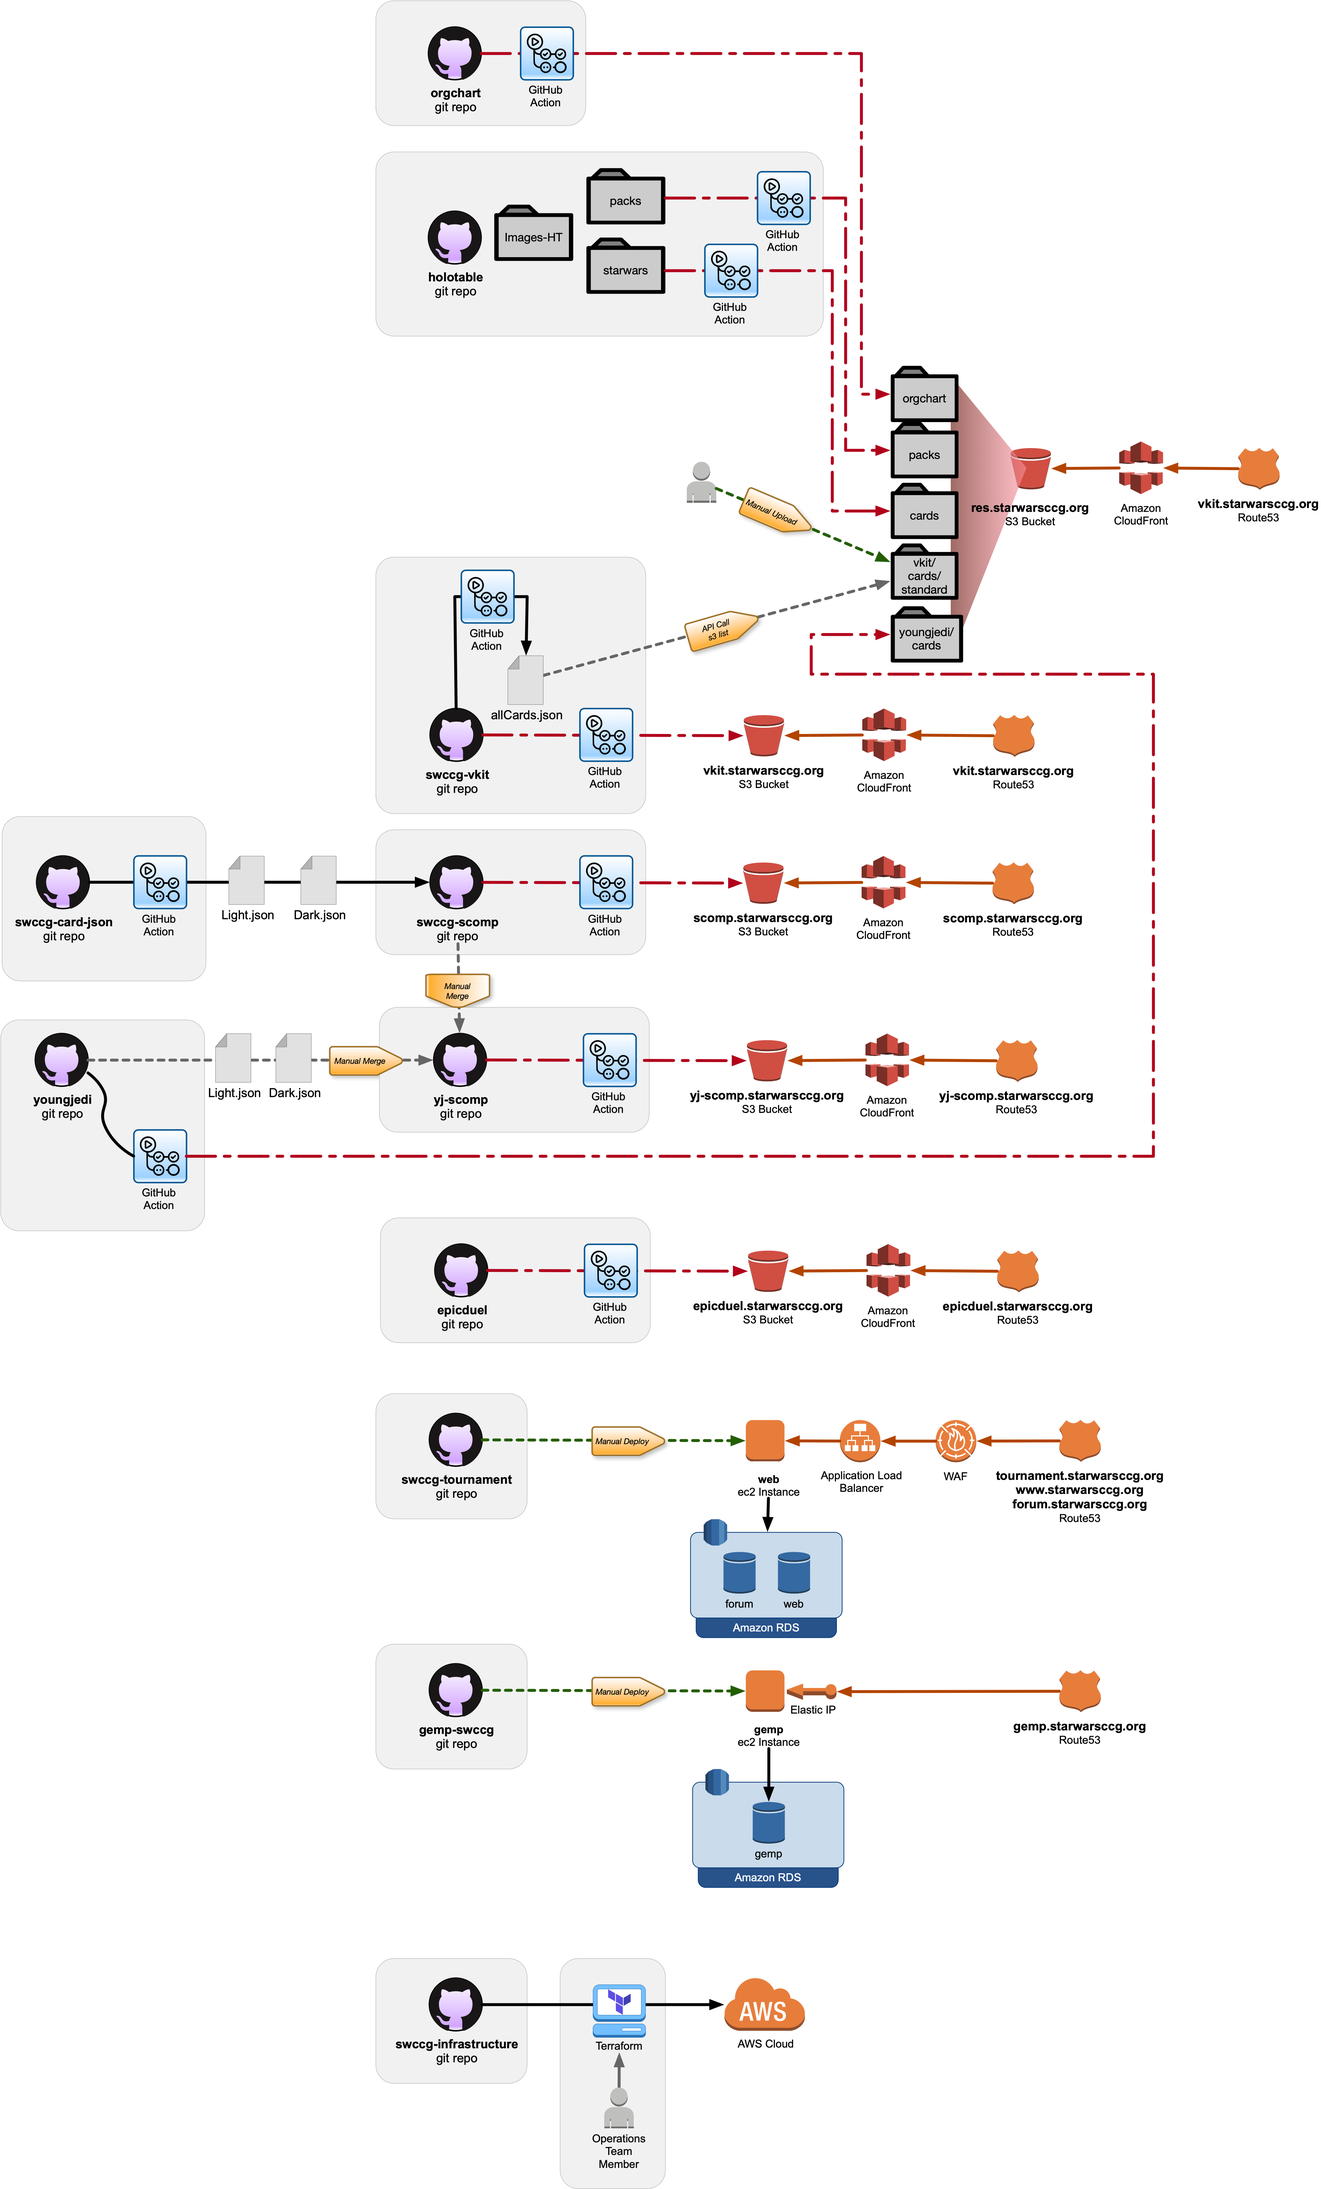
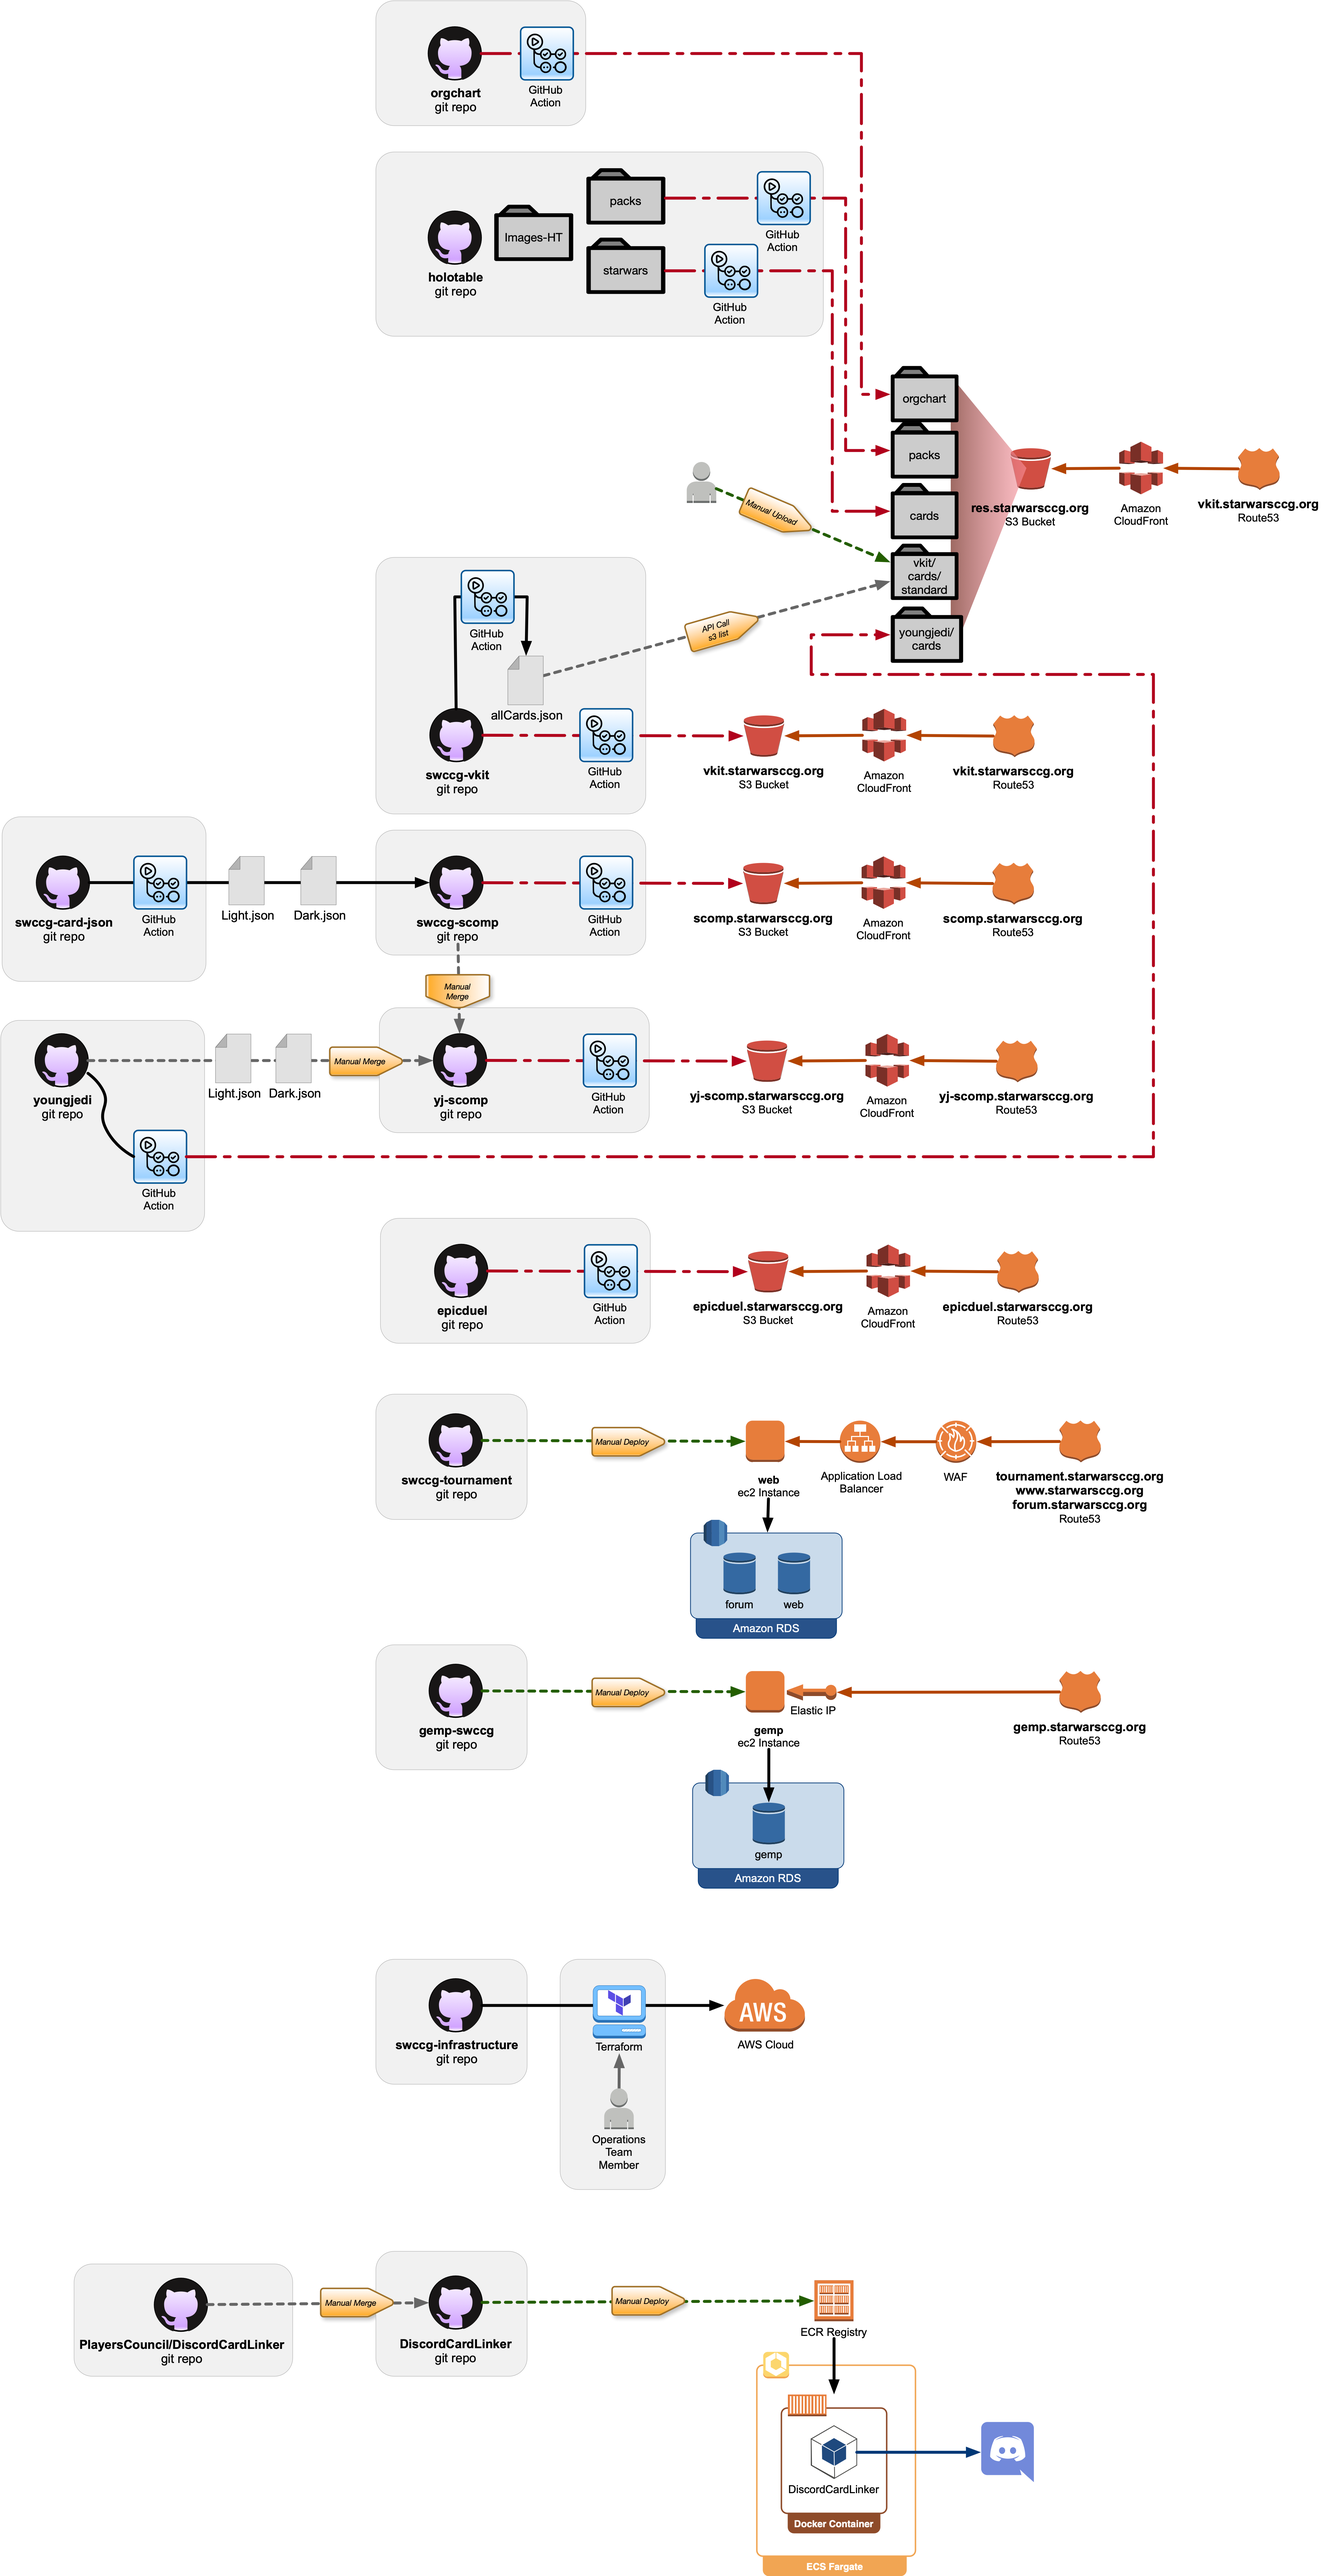
added discord card linker

diff --git a/README.md b/README.md
@@ -39,6 +39,16 @@
 
 
 
+## ECS Hosted
+
+* Containers are run on top of **ECS** _(Elastic Container Service)_ **Fargate**.
+* The **Discord Card Linker** app is a compiled .NET application that is bundled as a container and pushed to ECR _(Elastic Container Registry)_. Images are pulled from ECR and deployed to ECS Fargate.
+
+![SWCCG ECS hosted](pix/swccg_ecs_hosted.png)
+
+
+
+
 
 # Git
 
